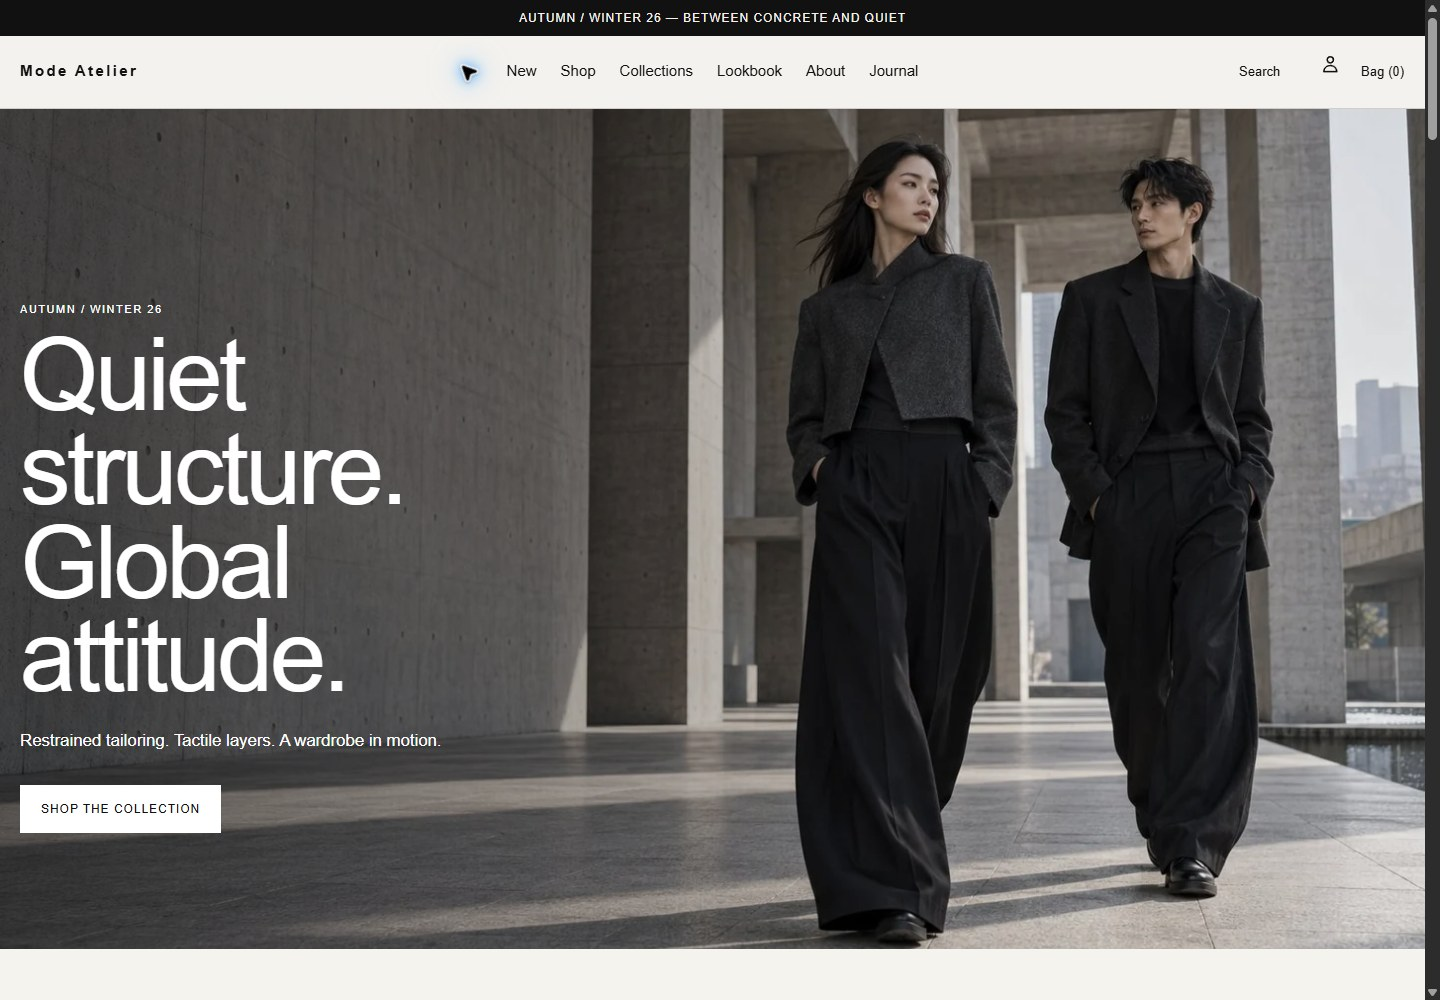
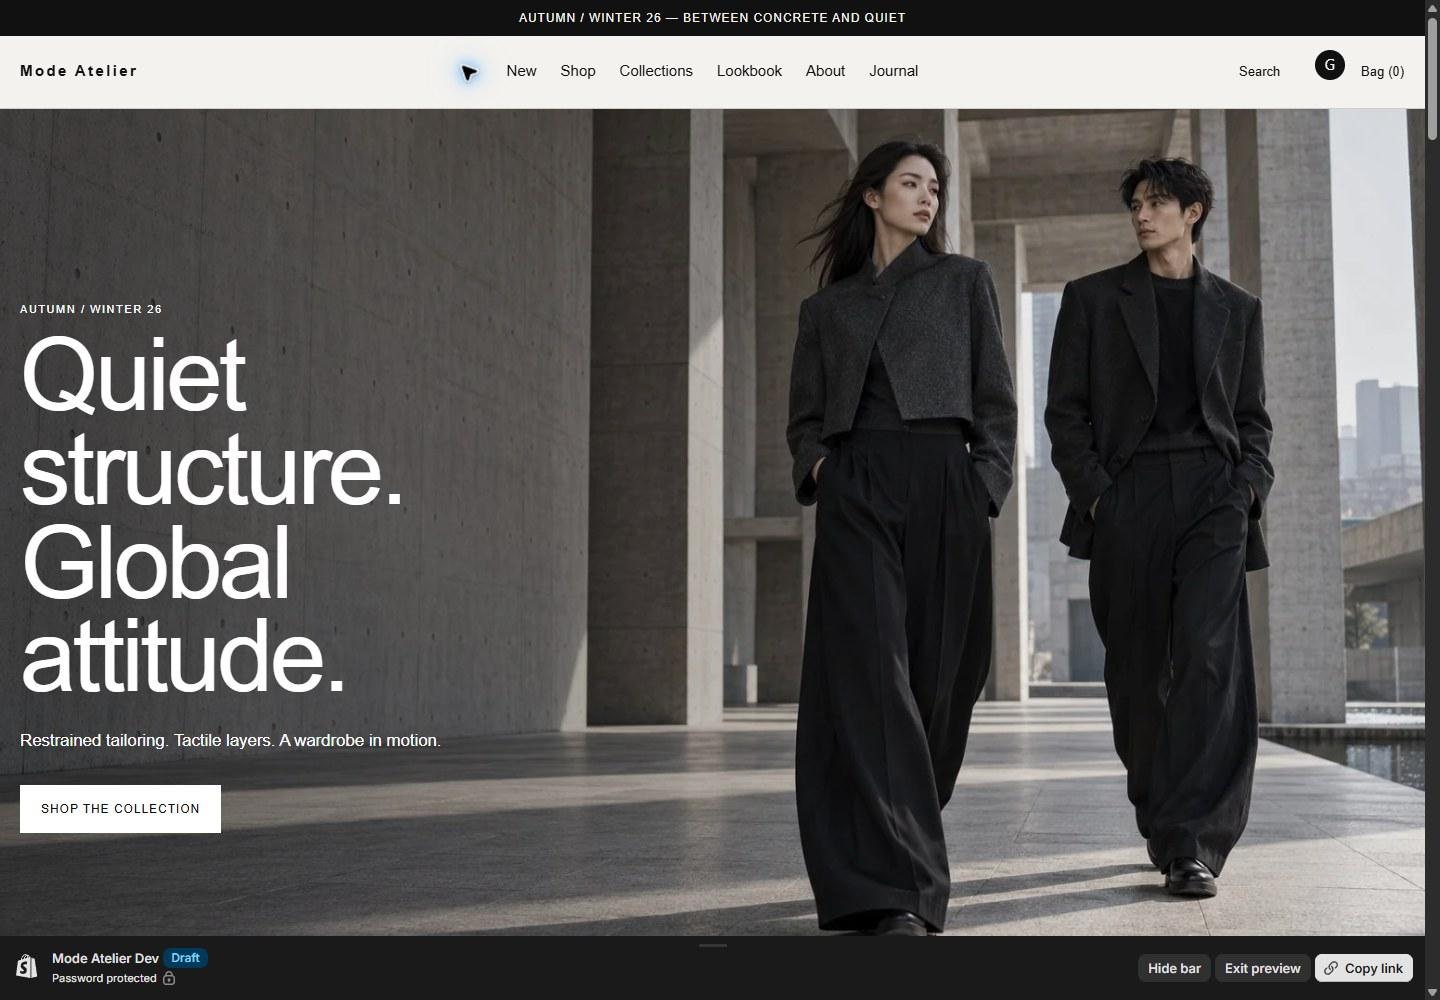
docs: close portfolio QA and signed-in account evidence

Changed region(s): [[0.0, 0.93, 1.0, 1.0], [0.9062, 0.031, 0.9375, 0.093]]

diff --git a/evidence/release-001/summary.md b/evidence/release-001/summary.md
@@ -1,9 +1,9 @@
-# Release 001 — partial verification / account authentication gate
+# Release 001 — Dev Store portfolio handover
 
-Status: **IMPLEMENTED; targeted runtime VERIFIED; release closeout pending**. Full release readiness is not claimed.
+Status: **VERIFIED for the documented Dev Store portfolio smoke scope; ready for portfolio review and handover**. Production go-live remains BLOCKED_EXTERNAL. Optional audits and unexercised platform paths below are not PASS claims.
 
 - Date: 2026-10-05 (Asia/Seoul)
-- Theme source SHA: `b1df32702ae3d28b9d7e0a07b25d283c2fe62ef7`; later documentation/evidence commits do not change the uploaded source.
+- Theme source SHA: `ff5447df6850212f769c9e8ee3955a0c0cc7a41d`; later documentation/evidence commits do not change the uploaded source. The final source adds one CSS rule to keep the Shopify header section wrapper sticky; earlier commerce receipts use b1df327, whose commerce code is unchanged.
 - Store: `mode-atelier-fluhoiwk.myshopify.com`
 - Unpublished theme: Mode Atelier Dev / `188330770750`
 - [Preview](https://mode-atelier-fluhoiwk.myshopify.com?preview_theme_id=188330770750)
@@ -40,13 +40,15 @@ KO/JA free auto translation completed with explicit terms consent; draft Home/an
 | Search | wool product/page/article, Outerwear→one jacket; query preserved on sort/locale switch | VERIFIED |
 | Predictive | wool product, about page, outer collection, empty result, ESC and input focus | VERIFIED; query-suggestion content not returned in sampled queries |
 | Keyboard | Skip link to main, menu Enter, FAQ Space, filter summary/checkbox/Apply/Clear | VERIFIED for smoke scope |
+| Predictive keyboard | Input → Tab to Search button → Tab to returned product link → Enter opens actual PDP; ESC closes from input | VERIFIED for this flow; full ARIA/arrow-key audit not claimed |
+| Sticky/grid regression | 1440 PDP scrollY 500: header top 0 / product info top 110; 390 collection scrollY 450: header top 0. Collection four desktop / two mobile columns | VERIFIED on final source |
 | Responsive | Home/collection/PDP/cart/search/Lookbook/Journal/article/FAQ/Contact: 390/768/1440 captures, no observed overflow | VERIFIED for retained captures only |
 | SEO | Native ProductGroup/Article JSON-LD, canonical/description; article type and HTTPS/alt image metadata | VERIFIED for sampled PDP/article |
-| 404 | KO missing-page recovery | VERIFIED |
+| 404 | KO/EN/JA missing-page headings and home recovery; EN/JA retain localized route after switch | VERIFIED |
 | Password | Custom Coming Soon in authenticated Theme Editor | VERIFIED, Admin preview only |
 | Theme Editor | Hero editable dirty state restored; announcement/menus/collection/lookbook/story/newsletter/footer, width/radii, size guide; unused FAQ controls | VERIFIED |
 | Contact/newsletter | Required-field validation; no inquiry/subscription sent | Validation checked, submissions NOT_TESTED |
-| Signed-in account | Email/OTP, avatar/orders/profile | BLOCKED_EXTERNAL |
+| Signed-in account | User completed email/OTP; avatar, hosted Orders and Profile loaded; returned to draft storefront still signed in | VERIFIED; authentication values and profile data excluded from evidence |
 | Lighthouse/axe | Not executed; no scores or full accessibility PASS claimed | NOT_TESTED |
 
 Inventory cleanup: Jacket S restored to 8; temporary S lines removed. Test order #1001 remains unfulfilled as evidence; it consumed one tote stock. Do not fulfill, purchase labels or send real customer messages for this order.
@@ -55,4 +57,8 @@ Inventory cleanup: Jacket S restored to 8; temporary S lines removed. Test order
 
 All screenshots are actual draft preview/Admin captures. Permission/translation/editor images establish configuration, not final storefront appearance. Earlier captures can predate content translations/payment-icon changes. Current localized Home captures and current draft are authoritative. Responsive JSON records captured paths/dimensions/lazy image observations; last observation per file is the retained capture. Metafield-definitions image predates import and its zero counts are historical. No credential or OTP is recorded.
 
-Next gate: user completes customer-account email/OTP authentication, then verify signed-in Orders/Profile/avatar and final evidence/editorial review. Predictive query suggestions, optional Lighthouse/axe and inquiry/subscription submission remain explicitly untested. Real PG, merchant country/eligibility, USD/JPY, DNS and production publish are external dependencies. No main merge or Live theme publish.
+Customer-account authentication gate is closed. Orders is empty for the user's own account; synthetic test order #1001 belongs to the separate QA customer and is not asserted to appear there. Profile evidence is cropped above personal field values. No account/profile setting was changed.
+
+Portfolio closeout includes actual evidence review, signed-in account verification, final variant/404/sticky captures, updated requirements/QA/handover and PR checks. Predictive query-suggestion content was not returned in sampled queries. Pagination is implemented but not exercised with six products and a minimum page size of eight. Optional Lighthouse/axe, all-browser certification, inquiry/subscription delivery and full editorial/legal translation approval remain untested. Real PG, merchant country/eligibility, USD/JPY, DNS and production publish are external dependencies. No main merge or Live theme publish.
+
+See [final closeout receipt](qa/closeout-2026-10-05.json), [final source validation](theme-check/validation-ff5447d.json) and [curated evidence index](index.md). Historical captures/receipts remain labeled; final portfolio views in the index contain actual synthetic imagery rather than placeholder artwork.

diff --git a/docs/qa-checklist.md b/docs/qa-checklist.md
@@ -1,58 +1,52 @@
-# QA Checklist
+# QA Checklist — Release 001
+
+2026-10-05 / final theme source ff5447d / unpublished theme 188330770750. Checked items mean the recorded smoke scenario passed, not exhaustive certification. Detailed observations and limitations: [release summary](../evidence/release-001/summary.md).
 
 ## 자동 검증
 
-- [ ] Shopify Theme Check PASS
-- [ ] JSON template/schema 오류 없음
-- [ ] locale key 누락 없음
-- [ ] pull request CI PASS
+- [x] Theme Check / JSON template/schema
+- [x] Locale key / interpolation parity
+- [x] Ajax cart unit contracts
+- [x] PR CI (exact final evidence commit and run are recorded in PR checks)
 
-## Desktop
+## Desktop / mobile
 
-- [ ] 1440px 홈 레이아웃
-- [ ] header sticky 동작
-- [ ] collection 4-column layout
-- [ ] product media + sticky info
-- [ ] variant 변경
-- [ ] add to cart
-- [ ] cart 수량 update/remove
-- [ ] search results
-- [ ] empty search/cart
-- [ ] 404
+- [x] Home / collection / PDP / cart / search / Lookbook / Journal / article / FAQ / Contact at 390 / 768 / 1440
+- [x] Sticky header actual scroll at 1440 / 390; PDP info top 110 at scrollY 500
+- [x] Collection four desktop / two mobile columns; mobile PDP single column
+- [x] Mobile menu toggle, search entry and header touch targets
+- [x] No observed overflow in retained viewport captures
+- [x] Variant price / URL / sold-out state
+- [x] Ajax success / live badge / localized network failure
+- [x] Cart quantity >1 / update / remove / empty / multiple products and variants
+- [x] Search results and empty search/cart
+- [x] Native filters apply / multiple / remove chip / clear / price / empty / sort
+- [x] Native ProductGroup / Article metadata and EN / KO / JA 404
 
-## Mobile
+## Locale / account / keyboard
 
-- [ ] 390px navigation toggle
-- [ ] hero text overflow 없음
-- [ ] 2-column product grid
-- [ ] PDP single-column 전환
-- [ ] tap target / form control
-- [ ] cart layout
-- [ ] newsletter form
+- [x] EN / KO / JA header/footer, PDP CTA, cart, search and 404 samples
+- [x] Country / language switches; selected PDP variant, cart and search query preserved
+- [x] User-completed hosted account login; avatar / Orders / Profile / storefront return
+- [x] Skip link, mobile menu Enter, FAQ Space, filter summary/checkbox/Apply/Clear
+- [x] Predictive Tab/Enter result entry and input Escape closure
+- [x] Contact/newsletter empty required-field validation (no messages sent)
 
-## Locale
+## Simulated commerce / editor
 
-각 KO / EN / JA에 대해:
+- [x] Japanese/Japan checkout with KRW and synthetic shipping
+- [x] Test Payment Gateway decline then approval; #1001 Test order / Paid / Unfulfilled
+- [x] Inventory reconciliation after checkout entry (9 requested → 8 in cart); probe cleanup
+- [x] Theme Editor hero / announcement / navigation / collection / lookbook / story / newsletter / footer / width / radii / size-guide settings
+- [x] Custom password page in authenticated Admin preview
 
-- [ ] header/footer
-- [ ] PDP CTA
-- [ ] cart
-- [ ] search
-- [ ] 404
-- [ ] 잘림/overflow
+## Explicitly untested or external
 
-## Commerce smoke test
+- [ ] Full axe / Lighthouse / screen-reader / arrow-key audit / all-browser certification
+- [ ] Live stock 422 response (unit fixture PASS only)
+- [ ] Pagination runtime (six products; smallest section page size eight)
+- [ ] Query-suggestion content (not returned by sampled API responses)
+- [ ] Contact/newsletter delivery, refund/cancel and extra gateway error code
+- [ ] Real PG / multi-currency / merchant legal and tax approval / DNS / production publish
 
-development store에서:
-
-- [ ] in-stock variant 장바구니 추가
-- [ ] sold-out variant CTA 비활성
-- [ ] quantity 2 이상
-- [ ] cart update
-- [ ] item remove
-- [ ] checkout 진입
-- [ ] test mode 가능한 provider의 성공/실패 시나리오
-
-## 증거
-
-검증 스크린샷/리포트는 `evidence/`에 release 단위로 보관한다.
+Keep these unchecked; they are not represented as PASS. See [evidence index](../evidence/release-001/index.md) and [production launch gate](launch-checklist.md).

diff --git a/evidence/release-001/index.md b/evidence/release-001/index.md
@@ -1,0 +1,19 @@
+# Release 001 evidence index
+
+Actual Shopify draft/Admin captures, reviewed 2026-10-05. Start with [scope and limitations](summary.md), [final QA receipt](qa/closeout-2026-10-05.json) and [source validation](theme-check/validation-ff5447d.json). Final source is ff5447d; b1df327 commerce implementation remains unchanged. No production payment/public deployment claim.
+
+| Review step | Actual evidence |
+|---|---|
+| Editorial home / signed-in avatar | [Desktop](desktop/home-1440.jpg), [mobile](mobile/home-390.jpg), [tablet](mobile/home-768.jpg) |
+| Synthetic brand/content | [Lookbook](desktop/lookbook-1440.jpg), [Journal](desktop/journal-1440.jpg), [article](desktop/article-1440.jpg) |
+| Product discovery | [Filters](desktop/collection-filters-1440.jpg), [mobile filters](mobile/collection-filters-390.jpg), [empty facet](mobile/collection-empty-390.jpg) |
+| PDP / changed variant / sold out | [Mobile PDP](mobile/pdp-390.jpg), [M price and URL](commerce/variant-m-price-url-1440.jpg), [L sold out](commerce/variant-l-sold-out-1440.jpg), [size guide](mobile/pdp-size-guide-390.jpg) |
+| Ajax/cart | [Success notice](commerce/ajax-add-confirmation-1440.jpg), [localized network failure](commerce/ajax-network-error.jpg), [multiple items](commerce/cart-multiple-products-1440.jpg), [empty cart](mobile/cart-empty-390.jpg) |
+| Search | [Results](desktop/search-1440.jpg), [predictive](desktop/predictive-search.jpg), [empty](mobile/search-empty-390.jpg) |
+| Localization | [EN home](desktop/home-1440.jpg), [KO home](localization/home-ko-390.jpg), [JA home](localization/home-ja-1440.jpg), [Japan market/languages](localization/japan-market-languages.jpg) |
+| Supporting pages | [Contact](desktop/contact-1440.jpg), [FAQ](desktop/faq-1440.jpg), [EN 404](localization/404-en-390.jpg), [KO 404](mobile/404-ko-390.jpg), [JA 404](localization/404-ja-390.jpg) |
+| Customer account | [Signed-out entry](commerce/customer-account-entry-ko.jpg), [signed-in Orders](commerce/customer-orders-signed-in-ko.jpg), [Profile header only](commerce/customer-profile-header-ko.jpg) |
+| Simulated checkout | [Test decline](commerce/test-payment-declined-ja.jpg), [test approval](commerce/test-payment-approved-ja.jpg), [Admin Test order #1001](commerce/test-order-admin.jpg) |
+| Regression / editor | [Desktop sticky header/PDP](qa/sticky-header-pdp-1440.jpg), [mobile sticky header](qa/sticky-header-collection-390.jpg), [editor controls](qa/theme-editor-brand-controls.jpg), [size-guide setting](qa/theme-editor-size-guide.jpg), [Coming Soon Admin preview](qa/password-admin-preview.jpg) |
+
+Older `pdp-ja-390.jpg`, initial checkout/permission/import captures and b18 validation establish historical configuration and are not current final storefront artwork. Offscreen lazy images need not have loaded in viewport captures. Screenshots never include OTP/tokens; Profile is cropped above private values. Test-order checkout data is synthetic and separate from the signed-in user's empty Orders page.

diff --git a/docs/case-study.md b/docs/case-study.md
@@ -2,7 +2,7 @@
 
 ## 문제
 
-신규 글로벌 패션 브랜드는 브랜드 에셋만 있고 IA, UI, 다국어, 결제/배송 정책이 확정되지 않았다. 일정이 짧은 상황에서 디자인과 개발뿐 아니라 "무엇이 외부 승인에 의존하는지"까지 분리해야 한다.
+글로벌 패션 브랜드 신규 쇼핑몰 구축 공고의 요구사항을 일반화한 합성 프로젝트다. 실제 클라이언트 소스·상품·브랜드 이미지는 사용하지 않고 MODE ATELIER의 catalog와 원본 synthetic visual을 만들었다. IA, 다국어, 관리자 편집성, 탐색부터 checkout까지 연결하고 외부 승인이 필요한 결제·배송·법률 정책을 구분하는 것이 과제였다.
 
 ## 접근
 
@@ -23,7 +23,7 @@
 
 ## 포트폴리오에서 보여줄 증거
 
-최종 단계에서 아래 증거를 추가한다.
+실제 캡처와 관찰 기록은 [Release 001 evidence index](../evidence/release-001/index.md)에 있다.
 
 - Home desktop/mobile
 - Collection
@@ -31,9 +31,12 @@
 - Cart
 - KO/EN/JA
 - Theme Check PASS
-- test checkout 진입
+- test checkout 거절 후 승인 / Admin Test order #1001
+- 사용자 직접 인증 후 hosted account Orders/Profile
 - release checklist
 
 ## 현재 한계
 
-development store의 실상품과 실제 merchant payment account가 아직 연결되지 않은 synthetic repository 단계다. 따라서 checkout provider의 실승인/실거래는 완료로 주장하지 않는다.
+실제 Dev Store에 6상품/14variants/9원본 합성 이미지, 5컬렉션, 4메타필드 정의, 메뉴·페이지·3Journal을 입력했다. Search & Discovery 필터와 EN/KO/JA, US/KR/JP를 실제 preview에서 검증했으며 통화는 모두 KRW다. 커머스와 모바일 smoke에서 발견한 네트워크 오류 현지화·재고 부분 성공 후 배지 처리·상품 가격 표시·sticky header 문제를 수정했다.
+
+Test Payment Gateway의 거절/승인을 검증했으나 실가맹점 PG 계약·실거래는 완료로 주장하지 않는다. Dev Store는 password protected/unpublished이고 main과 Live Horizon은 보존됐다. Lighthouse/axe, 문의·구독 전송, 여섯 상품으로 발생하지 않는 pagination, live stock 422 등 미검증 항목과 market 경고 불일치는 [release summary](../evidence/release-001/summary.md)에 남겼다. 포트폴리오 검토·인수인계와 실제 production go-live는 별도 상태다.

diff --git a/docs/handover-guide.md b/docs/handover-guide.md
@@ -55,6 +55,9 @@
 - EN/KO/JA 및 US/Korea/Japan, 실제 통화는 KRW. Home 수동 카피는 `fixtures/home-localization-seed.json`. 메뉴 New/About/Journal은 KO 신상품/브랜드 소개/저널, JA 新着/ブランドについて/ジャーナル로 검수했다.
 - 테스트 제공자만 활성화. #1001은 합성 Test order이며 배송하지 않는다. 실제 PG 계약, merchant country, DNS, production publish는 외부 작업이다.
 - 자켓 S 재고 8개에 native add 9는 접수됐지만 checkout 진입 후 cart가 8로 조정됐다. 422 부분 추가/배지 동기화는 unit contract로 확인, 실제 Shopify 422는 재현하지 못했다. 품절 L과 네트워크 오류 알림은 실제 검증했다.
-- hosted account의 KO 로그인/Orders/Profile 진입 확인. 사용자 이메일/OTP 직접 완료 후 signed-in 검증 가능. 인증코드는 문서/채팅에 기록하지 않는다.
+- 사용자가 직접 이메일/OTP 인증을 완료한 후 signed-in 아바타, hosted Orders/Profile, storefront 복귀를 실제 검증했다. 사용자 계정의 Orders는 비어 있고 #1001은 별도 합성 QA 고객 주문이다. 프로필 증거는 개인 값 위쪽만 잘라 저장했으며 계정 설정을 변경하지 않았다. 인증코드는 문서/채팅에 기록하지 않는다.
+- 최종 theme source는 `ff5447df6850212f769c9e8ee3955a0c0cc7a41d`. Shopify 섹션 래퍼로 인해 풀리던 sticky header를 수정하고 1440/390 스크롤에서 검증했다.
+
+Dev Store 포트폴리오의 기록된 smoke 범위는 VERIFIED이며 검토·인수인계가 가능하다. 실제 운영 런칭은 별도 승인 단계다. 리뷰어는 저장소의 `evidence/release-001/index.md` 순서로 actual draft 캡처를 확인하고, 로그인된 관리자 브라우저에서 preview URL을 연다. Dev Store 비밀번호/토큰을 저장소나 공개 포트폴리오에 올리지 않는다.
 
 기준점과 개별 검증/미검증 범위는 `evidence/release-001/summary.md`를 사용한다. CI green이 모든 실제 UI/PG/접근성 검증 완료를 의미하지 않는다.

diff --git a/docs/requirements.md b/docs/requirements.md
@@ -20,7 +20,7 @@
 | R-016 | 관련상품 추천 | Product Recommendations API | 구현 |
 | R-017 | 패션 lookbook | lookbook-grid + page.lookbook | 구현 |
 | R-018 | synthetic 상품 입력 | fixtures + catalog-seed | 구현 |
-| R-019 | 실제 상품 이미지/메타필드 입력 | development store | 다음 단계 |
+| R-019 | 합성 상품 이미지/메타필드 입력 | development store + fixtures | VERIFIED: 원본 이미지 9개, 정의 4개, PDP 샘플 검증 |
 | R-020 | Predictive search | predictive-search section + Ajax API | 구현 |
 | R-021 | Social sharing metadata | social-meta-tags | 구현 |
 | R-022 | 최신 customer accounts 진입 | shopify-account component | 구현 |
@@ -33,3 +33,9 @@
 ## 완료 정의
 
 코드 존재만으로 완료 처리하지 않는다. 각 기능은 Theme Check, development store 수동 smoke test, 모바일/데스크톱 검증 중 적용 가능한 검증을 통과해야 release-ready로 승격한다.
+
+## Release 001 실제 검증 상태
+
+R-001~009, R-015~018, R-020~027은 실제 draft smoke 범위에서 VERIFIED다. 예외 범위: R-004 pagination은 여섯 상품으로 페이지 크기(최소 8)를 넘지 않아 IMPLEMENTED_UNVERIFIED이며, R-020 query-suggestion 콘텐츠는 sampled 응답에 없었다. FAQ/Lookbook 실제 기본 page HTML은 검증했고 custom draft 템플릿은 Live Horizon을 보존하기 위해 미할당이다.
+
+R-012는 US/KR/JP Markets와 EN/KO/JA 게시 및 실제 KRW 전환을 검증했다. USD/JPY와 merchant eligibility는 외부 의존이다. R-010은 결제 매트릭스와 Bogus 테스트 승인/거절 증거를 포함한다. R-011/R-013 실제 PG/DNS는 BLOCKED_EXTERNAL이다. R-014의 QA/evidence/handover는 [Release 001](../evidence/release-001/summary.md)에 완료 범위와 미검증 항목을 기록했다. production go-live는 [launch checklist](launch-checklist.md)의 별도 gate다.

diff --git a/README.md b/README.md
@@ -58,3 +58,9 @@ CI에서도 Shopify Theme Check를 실행합니다.
 이 저장소는 storefront/theme 코드와 런칭 설계를 증명합니다. 실제 결제 승인, 실가맹점 PG 계약, 도메인 소유권 확인, 실배송사 계약, 세금/관부가세 정책 확정은 실제 merchant 계정과 사업자 정보가 있어야 완료할 수 있으므로 코드상 완료로 표시하지 않습니다.
 
 자세한 범위와 증거 기준은 `docs/`를 참고하세요.
+
+## 실제 Dev Store 포트폴리오
+
+2026-10-05 기준 Mode Atelier Dev(`188330770750`)를 unpublished로 업로드하고 합성 catalog 6상품/14variants, 이미지 9개, 3개 Journal, 필터, KO/EN/JA, 계정 로그인과 테스트 결제를 실제 검증했습니다. [Draft preview](https://mode-atelier-fluhoiwk.myshopify.com?preview_theme_id=188330770750)는 Dev Store의 관리자 인증/접근 제약이 있습니다.
+
+검토 순서는 [evidence index](evidence/release-001/index.md), [검증 범위·한계](evidence/release-001/summary.md), [handover](docs/handover-guide.md)입니다. main과 Live Horizon은 보존했습니다. 문서화된 포트폴리오 smoke 범위는 VERIFIED이며 production PG/DNS/법률 정책 승인은 별도 외부 gate입니다.

diff --git a/docs/launch-checklist.md b/docs/launch-checklist.md
@@ -1,5 +1,14 @@
 # Launch Checklist
 
+## Dev Store 포트폴리오 gate — 2026-10-05
+
+- [x] 실제 unpublished theme 업로드 / 원본 합성 이미지와 catalog / 메뉴·페이지·Journal
+- [x] EN/KO/JA, US/KR/JP의 KRW preview와 주요 커머스 smoke
+- [x] 고객 계정 signed-in 진입, test gateway 승인/거절 증거
+- [x] 정적 검증 / PR CI / 실제 viewport 캡처 / 인수인계 문서
+
+위 gate는 문서화된 Dev Store 포트폴리오 검토 범위다. 아래 항목은 **실가맹점 production go-live** 체크이며 합성 데이터나 test payment로 대신 체크하지 않는다. [Release 001](../evidence/release-001/summary.md)의 미검증 범위도 함께 확인한다.
+
 ## 콘텐츠
 
 - [ ] 실제 로고
